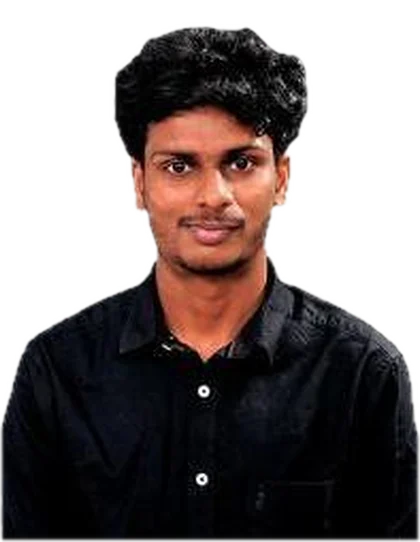
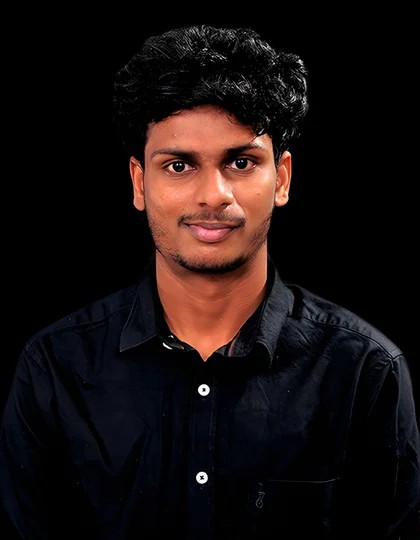
HD photo, resume scroll fix, github link, small fixes

diff --git a/src/components/ResumeModal.tsx b/src/components/ResumeModal.tsx
@@ -39,13 +39,13 @@ export default function ResumeModal({ onClose }: { onClose: () => void }) {
         </div>
       </div>
       <motion.div
-        className="gutter flex-1 pb-6"
+              className="gutter min-h-0 flex-1 pb-6"
         initial={{ opacity: 0, y: 40, scale: 0.98 }}
         animate={{ opacity: 1, y: 0, scale: 1 }}
         transition={{ duration: 0.6, ease: EASE }}
       >
         {small ? (
-          <div data-lenis-prevent className="h-full overflow-y-auto">
+                   <div data-lenis-prevent className="h-full overflow-y-auto overscroll-contain pb-10">x
             <ResumeSheet />
             <a href={profile.resumePdf} target="_blank" rel="noreferrer" className="glass mt-4 flex min-h-12 items-center justify-center rounded-md text-sm font-semibold text-bone">
               Open original PDF ↗

diff --git a/src/components/About.tsx b/src/components/About.tsx
@@ -39,7 +39,7 @@ export default function About() {
                 <p className="text-[10px] font-bold tracking-[0.3em] text-crimson-2">STARRING</p>
                 <p className="font-display text-3xl leading-none text-bone">{profile.displayName}</p>
               </div>
-              <span className="rounded border border-white/30 px-1.5 text-[10px] font-bold text-bone">S01–S05</span>
+              <span className="rounded border border-white/30 px-1.5 text-[10px] font-bold text-bone">5 SEASONS</span>
             </div>
           </div>
         </Tilt>

diff --git a/src/components/ContinueWatching.tsx b/src/components/ContinueWatching.tsx
@@ -8,7 +8,7 @@ import { EASE, RevealText } from './fx';
 import { PosterBackdrop } from './Poster';
 import { RailButtons } from './Rail';
 
-const GLYPHS: Record<SectionId, string> = { about: 'S', journey: 'S01', originals: '3', picks: '10', skills: '{ }', moments: '★', story: 'CV' };
+const GLYPHS: Record<SectionId, string> = { about: 'S', journey: 'S01', originals: '5', picks: '10', skills: '{ }', moments: '★', story: 'CV' };
 
 export default function ContinueWatching({ order }: { order: SectionId[] }) {
   const progress = useWatchProgress();

diff --git a/src/data/portfolio.ts b/src/data/portfolio.ts
@@ -23,7 +23,7 @@ export const profile = {
     linkedin: 'https://www.linkedin.com/in/sudarson-1258ca54',
     // add your GitHub URL here and the GitHub buttons appear automatically
 
-    github: 's://github.com/Sudarsonk22',
+    github: 'https://github.com/Sudarsonk22',
   },
   resumePdf: '/assets/Sudarson_K_Resume.pdf',
   resumeFileName: 'Sudarson_K_Resume.pdf',
